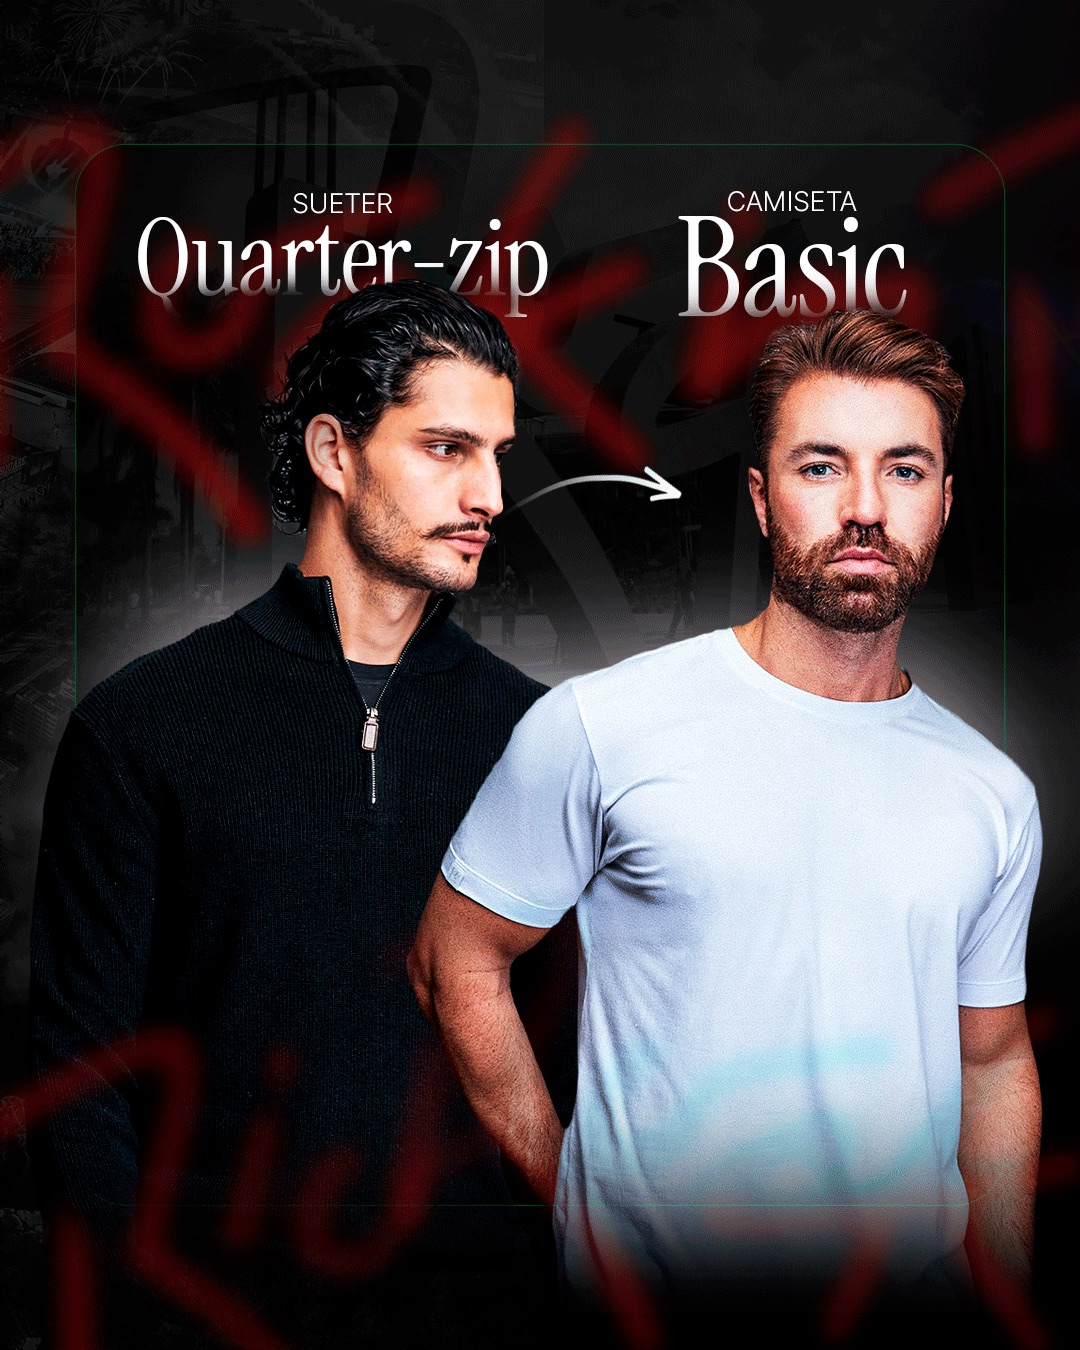
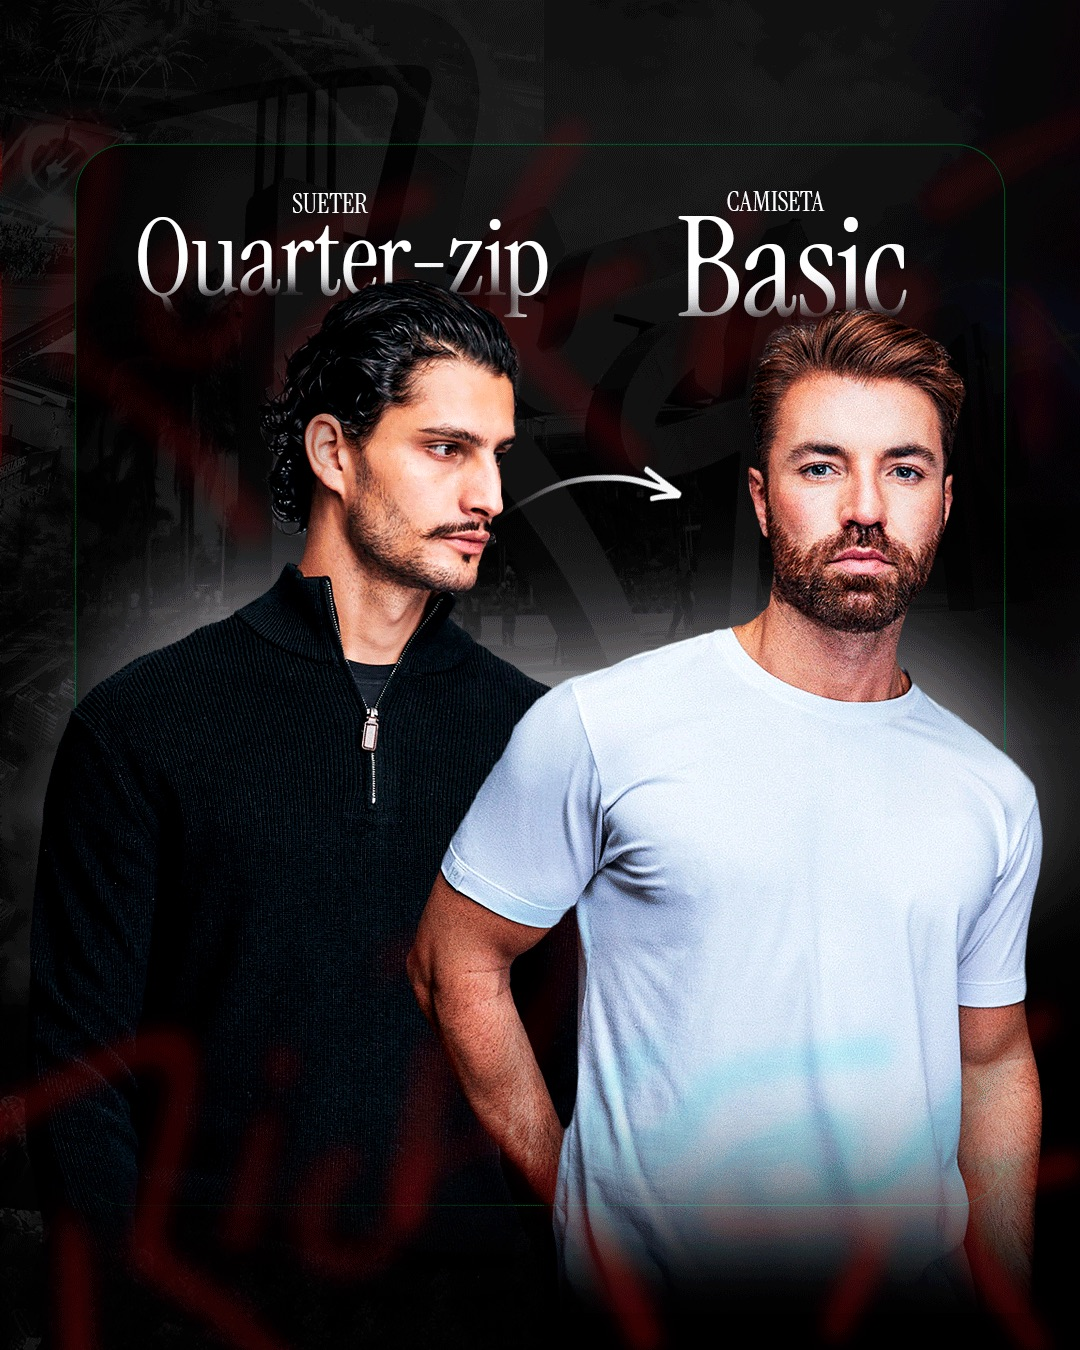
Atualiza carrossel v8 (Basic.US) com nova tipografia das 5 peças

diff --git a/carrosselv8.html b/carrosselv8.html
@@ -39,6 +39,6 @@
   <div class="time">Há 2 horas</div>
 </div>
 
-<script src="js/carrosselv8.js?v=20260902d"></script>
+<script src="js/carrosselv8.js?v=20260902e"></script>
 </body>
 </html>

diff --git a/js/carrosselv8.js b/js/carrosselv8.js
@@ -1,4 +1,4 @@
-const ASSET_VERSION = '20260902d';
+const ASSET_VERSION = '20260902e';
 
 const slides = [
   'img/carrossel-basicus-v8-1.jpg',
